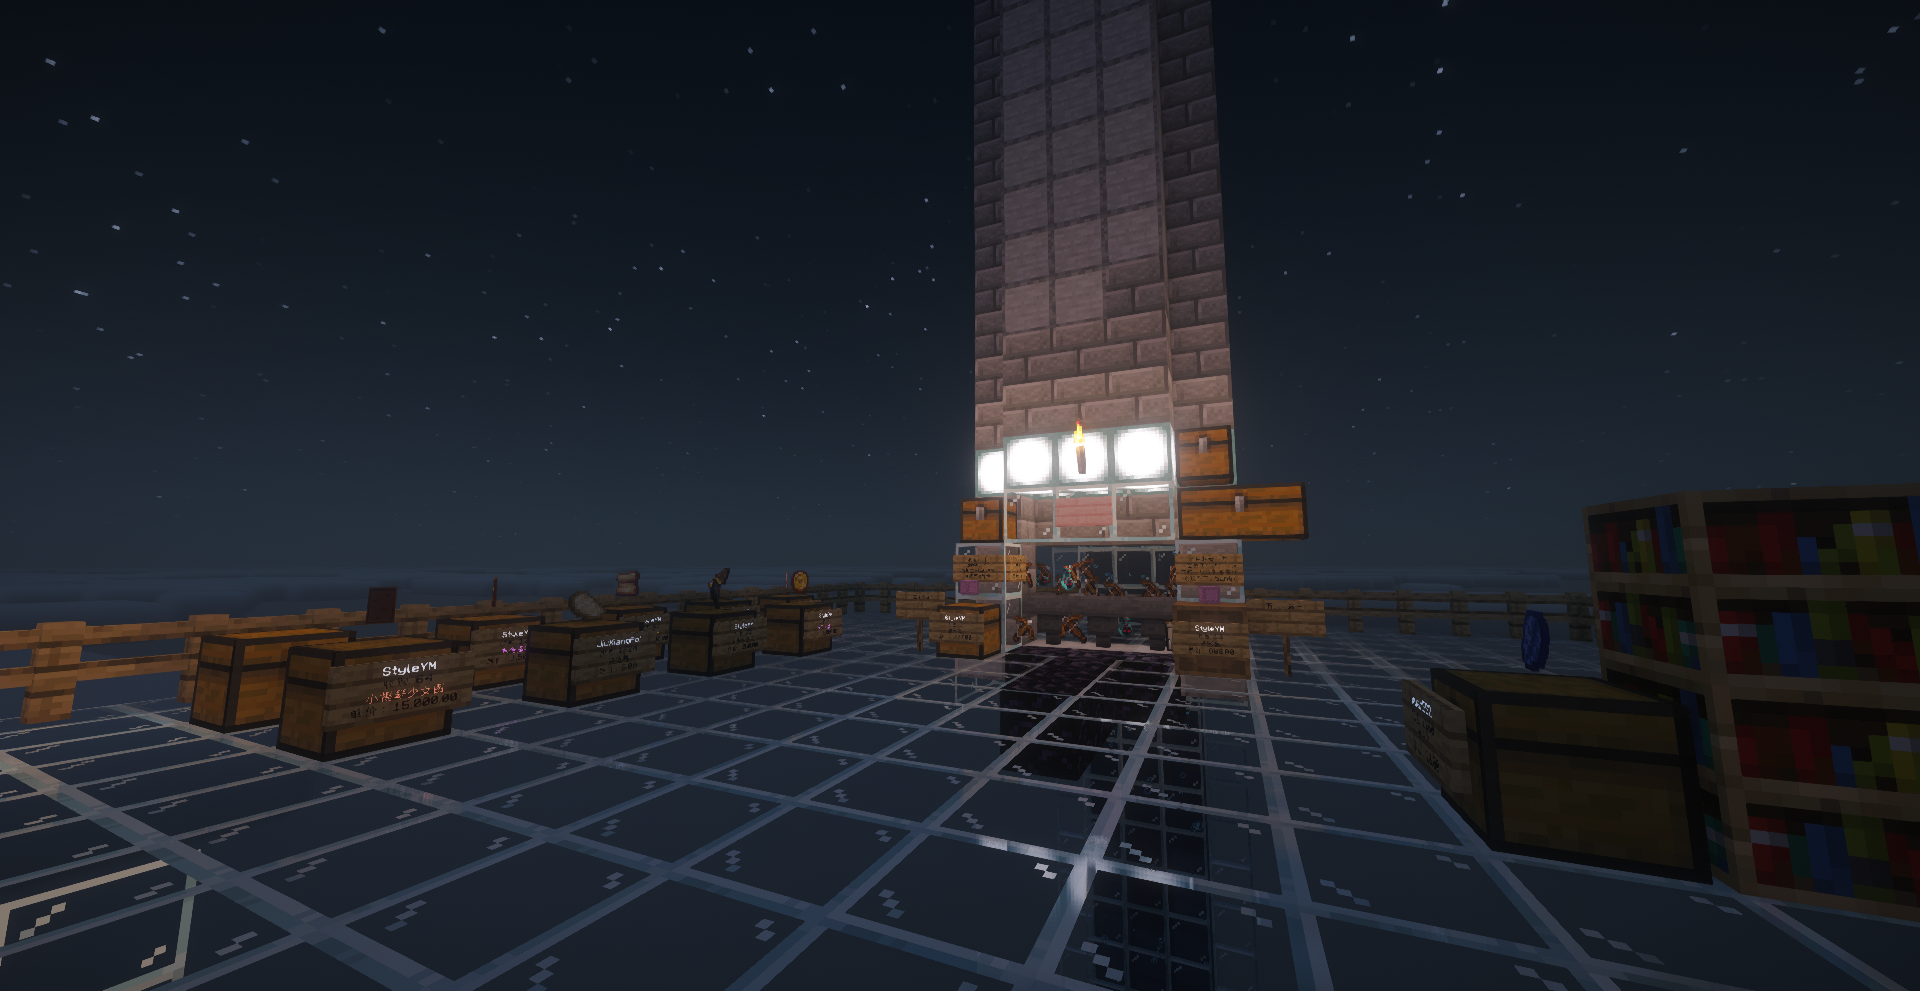
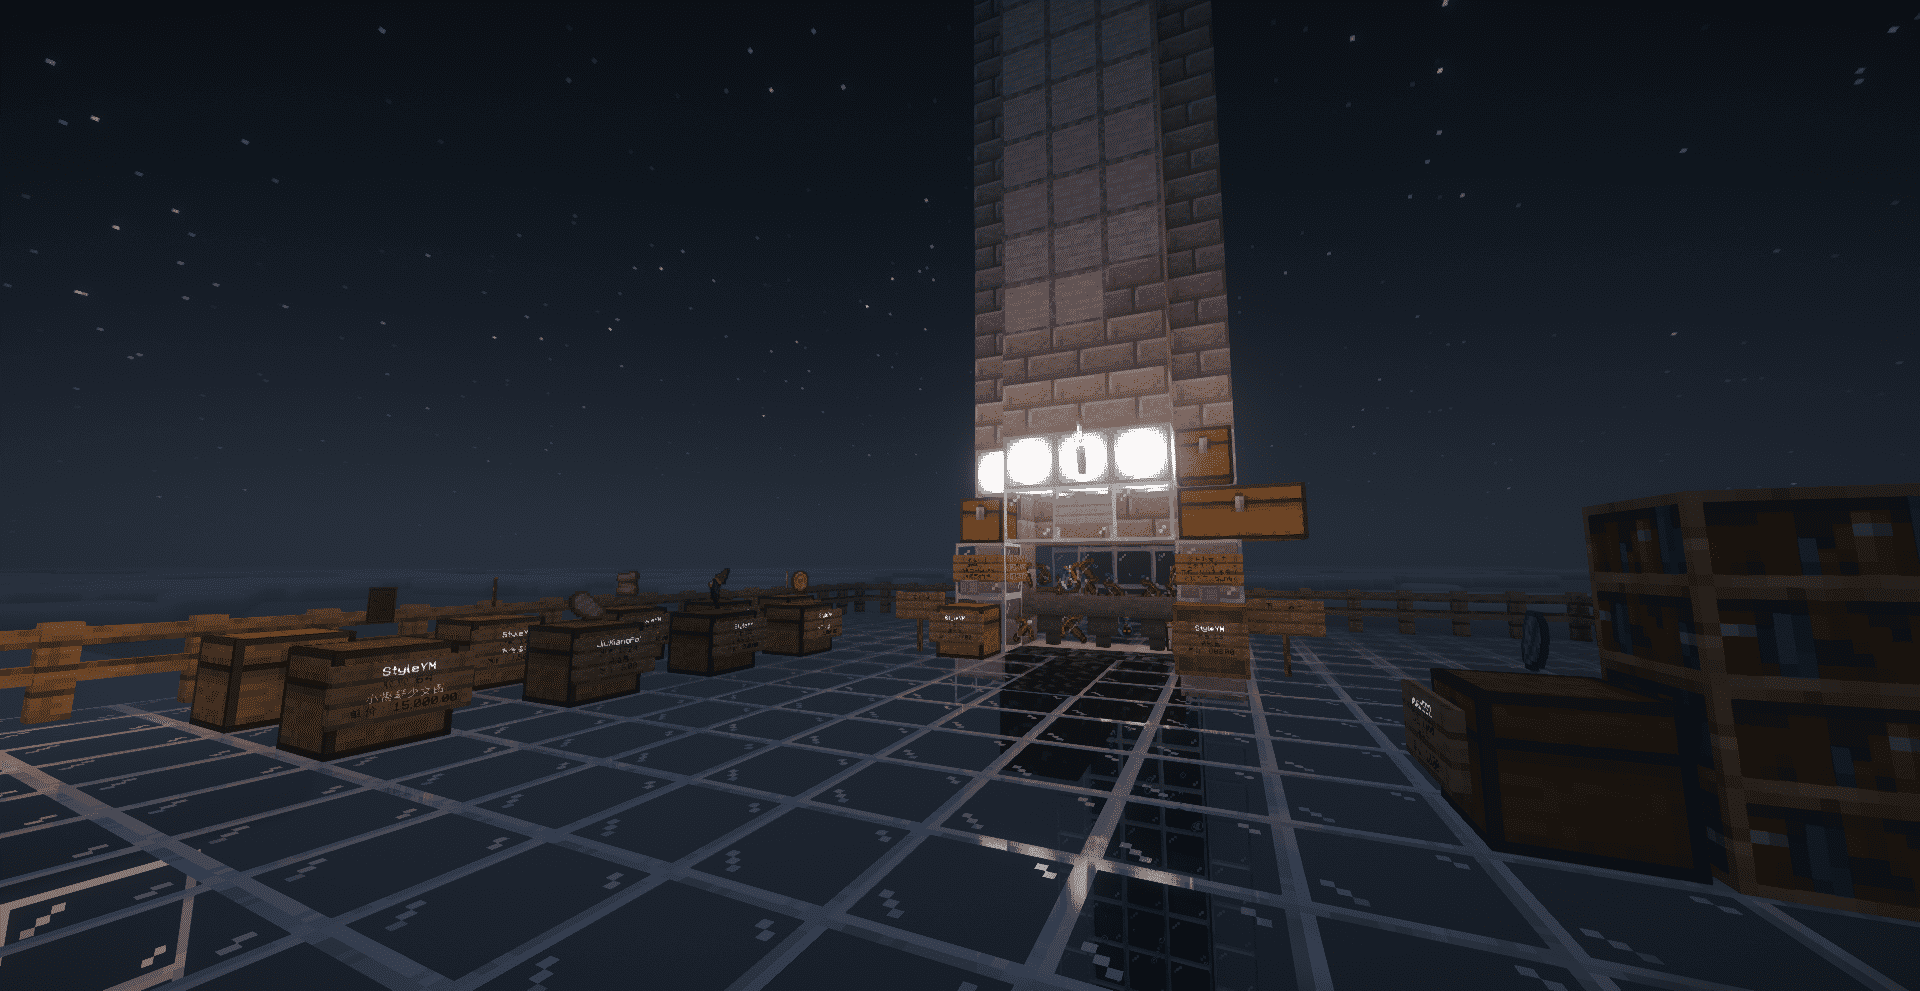
docs(showcase): add new shops, update store showcase system
- add 11 new commercial shops to stores.json
- update verification type to support array multi-certification
- redesign certification badge display to support multiple tags
- update tooltip text and certification icons
- add special tag styling for certified merchants
- update existing store image assets

diff --git a/apps/docs/app/(home)/showcase/page.tsx b/apps/docs/app/(home)/showcase/page.tsx
@@ -13,7 +13,6 @@ import {
   Check, 
   CheckCircle2,
   Star,
-  AlertTriangle,
   HelpCircle
 } from 'lucide-react';
 import Image from 'next/image';
@@ -35,7 +34,7 @@ interface StoreItem {
   image: string;
   type: 'commercial' | 'charity';
   merchantTypes: ('individual' | 'joint' | 'charity')[];
-  verification: 'blue' | 'yellow' | 'red' | 'rainbow';
+  verification: 'blue' | 'yellow' | 'red' | 'rainbow' | ('blue' | 'yellow' | 'red' | 'rainbow')[];
   createdAt: string;
   tags?: string[];
 }
@@ -61,26 +60,53 @@ function StarInCircleIcon(props: React.SVGProps<SVGSVGElement>) {
   );
 }
 
+// 自定义圆圈包裹勾号组件（用于黄色认证）
+function CheckInCircleIcon(props: React.SVGProps<SVGSVGElement>) {
+  return (
+    <svg
+      xmlns="http://www.w3.org/2000/svg"
+      viewBox="0 0 24 24"
+      fill="none"
+      stroke="currentColor"
+      strokeWidth="2"
+      strokeLinecap="round"
+      strokeLinejoin="round"
+      {...props}
+    >
+      <circle cx="12" cy="12" r="10" />
+      <polyline points="9,12 11,14 15,10" />
+    </svg>
+  );
+}
+
 // 获取认证信息的配置
-const getVerificationConfig = (verification: StoreItem['verification']) => {
+interface VerificationConfig {
+  icon: React.ComponentType<React.SVGProps<SVGSVGElement>>;
+  className: string;
+  style?: React.CSSProperties;
+  label: string;
+  tooltip: string;
+}
+
+const getVerificationConfig = (verification: 'blue' | 'yellow' | 'red' | 'rainbow'): VerificationConfig => {
   switch (verification) {
     case 'blue':
       return {
         icon: CheckCircle2,
         className: 'text-blue-500 dark:text-blue-400',
         label: '蓝色认证',
-        tooltip: '该商户可靠性高，店长可以信赖。',
+        tooltip: '商户可靠性高，口碑优秀',
       };
     case 'yellow':
       return {
-        icon: AlertTriangle,
+        icon: CheckInCircleIcon,
         className: 'text-yellow-500 dark:text-yellow-400',
         label: '黄色认证',
-        tooltip: '商户可能存在经常性缺货，是否值得信任有待考究',
+        tooltip: '商品补货较慢，口碑良好',
       };
     case 'red':
       return {
-        icon: HelpCircle,
+        icon: CheckInCircleIcon,
         className: 'text-red-500 dark:text-red-400',
         label: '红色认证',
         tooltip: '暂未获取更多有价值的信息，真实度有待考究。',
@@ -93,7 +119,7 @@ const getVerificationConfig = (verification: StoreItem['verification']) => {
           stroke: 'url(#rainbow-gradient)',
         },
         label: '星标认证',
-        tooltip: '商户人缘极佳，商店补货勤快，口碑优秀。',
+        tooltip: '口碑极佳，可靠性极高，补货勤',
       };
   }
 };
@@ -148,7 +174,7 @@ export default function Showcase() {
       activeTab === 'all' || 
       (activeTab === 'commercial' && store.type === 'commercial') ||
       (activeTab === 'charity' && (store.type === 'charity' || store.merchantTypes.includes('charity')));
-    const matchesStar = !onlyStars || store.verification === 'rainbow';
+    const matchesStar = !onlyStars || (Array.isArray(store.verification) ? store.verification.includes('rainbow') : store.verification === 'rainbow');
     const matchesSearch = 
       store.name.toLowerCase().includes(searchQuery.toLowerCase()) ||
       store.owner.toLowerCase().includes(searchQuery.toLowerCase()) ||
@@ -191,19 +217,19 @@ export default function Showcase() {
                 </div>
                 <div className="flex items-center gap-2">
                   <CheckCircle2 className="size-4 text-blue-500 shrink-0" />
-                  <span><strong className="text-neutral-700 dark:text-neutral-300">蓝色认证</strong>：可靠性高，店长可信赖。</span>
+                  <span><strong className="text-neutral-700 dark:text-neutral-300">蓝色认证</strong>：商户可靠性高，口碑优秀。</span>
                 </div>
                 <div className="flex items-center gap-2">
-                  <AlertTriangle className="size-4 text-yellow-500 shrink-0" />
-                  <span><strong className="text-neutral-700 dark:text-neutral-300">黄色认证</strong>：缺货，是否信任有待考究。</span>
+                  <CheckInCircleIcon className="size-4 text-yellow-500 shrink-0" />
+                  <span><strong className="text-neutral-700 dark:text-neutral-300">黄色认证</strong>：商品补货较慢，口碑良好。</span>
                 </div>
                 <div className="flex items-center gap-2">
-                  <HelpCircle className="size-4 text-red-500 shrink-0" />
+                  <CheckInCircleIcon className="size-4 text-red-500 shrink-0" />
                   <span><strong className="text-neutral-700 dark:text-neutral-300">红色认证</strong>：缺乏足够信息，有待考究。</span>
                 </div>
                 <div className="flex items-center gap-2">
                   <StarInCircleIcon className="size-4 shrink-0" style={{ stroke: 'url(#rainbow-gradient)' }} />
-                  <span><strong className="text-neutral-700 dark:text-neutral-300">星标认证</strong>：人缘好，补货勤，口碑优秀。</span>
+                  <span><strong className="text-neutral-700 dark:text-neutral-300">星标认证</strong>：口碑极佳，可靠性极高，补货勤。</span>
                 </div>
               </div>
               
@@ -232,6 +258,13 @@ export default function Showcase() {
                     <span>公益商户</span>
                   </span>
                   <span>通常是存在公益行为。</span>
+                </div>
+                <div className="flex items-center gap-2">
+                  <span className="inline-flex items-center gap-1 px-1.5 py-0.5 rounded text-[10px] font-semibold bg-emerald-500/10 text-emerald-500 border border-emerald-500/20 shrink-0">
+                    <CheckCircle2 className="size-2.5" />
+                    <span>认证商户</span>
+                  </span>
+                  <span>主动认领、入驻商会。</span>
                 </div>
               </div>
             </div>
@@ -380,7 +413,7 @@ export default function Showcase() {
             className="grid grid-cols-1 sm:grid-cols-2 lg:grid-cols-3 gap-8"
           >
             {filteredStores.map((store) => {
-              const vConfig = getVerificationConfig(store.verification);
+              const verifications = Array.isArray(store.verification) ? store.verification : [store.verification];
               return (
                 <motion.div
                   key={store.id}
@@ -423,24 +456,27 @@ export default function Showcase() {
                         <h2 className="text-xl font-bold text-neutral-900 dark:text-white tracking-tight">{store.name}</h2>
                         
                         {/* 认证 Badge 容器与悬停气泡解释 */}
-                        <div className="relative group/tooltip flex items-center">
-                          {(() => {
+                        <div className="flex items-center gap-1">
+                          {verifications.map((v) => {
+                            const vConfig = getVerificationConfig(v as 'blue' | 'yellow' | 'red' | 'rainbow');
                             const IconComponent = vConfig.icon;
                             return (
-                              <IconComponent 
-                                className={cn("size-5 cursor-help", vConfig.className)}
-                                style={vConfig.style}
-                              />
+                              <div key={v} className="relative group/tooltip flex items-center">
+                                <IconComponent
+                                  className={cn("size-5 cursor-help", vConfig.className)}
+                                  style={vConfig.style}
+                                />
+                                {/* 精致的 Tooltip */}
+                                <div className="absolute bottom-full left-1/2 -translate-x-1/2 mb-2 w-48 p-2.5 bg-neutral-900 dark:bg-neutral-800 text-white text-xs rounded-lg shadow-xl border border-neutral-700/50 opacity-0 invisible group-hover/tooltip:opacity-100 group-hover/tooltip:visible translate-y-1 group-hover/tooltip:translate-y-0 transition-all duration-200 z-50 pointer-events-none">
+                                  <div className="relative font-medium leading-relaxed">
+                                    <span className="font-bold block text-brand border-b border-neutral-700/60 pb-1 mb-1">{vConfig.label}</span>
+                                    {vConfig.tooltip}
+                                    <div className="absolute top-full left-1/2 -translate-x-1/2 w-2 h-2 bg-neutral-900 dark:bg-neutral-800 border-r border-b border-neutral-700/50 rotate-45 -mt-[5px]" />
+                                  </div>
+                                </div>
+                              </div>
                             );
-                          })()}
-                          {/* 精致的 Tooltip */}
-                          <div className="absolute bottom-full left-1/2 -translate-x-1/2 mb-2 w-48 p-2.5 bg-neutral-900 dark:bg-neutral-800 text-white text-xs rounded-lg shadow-xl border border-neutral-700/50 opacity-0 invisible group-hover/tooltip:opacity-100 group-hover/tooltip:visible translate-y-1 group-hover/tooltip:translate-y-0 transition-all duration-200 z-50 pointer-events-none">
-                            <div className="relative font-medium leading-relaxed">
-                              <span className="font-bold block text-brand border-b border-neutral-700/60 pb-1 mb-1">{vConfig.label}</span>
-                              {vConfig.tooltip}
-                              <div className="absolute top-full left-1/2 -translate-x-1/2 w-2 h-2 bg-neutral-900 dark:bg-neutral-800 border-r border-b border-neutral-700/50 rotate-45 -mt-[5px]" />
-                            </div>
-                          </div>
+                          })}
                         </div>
                       </div>
 
@@ -482,11 +518,21 @@ export default function Showcase() {
                         })}
 
                         {/* 自定义特色标签 */}
-                        {store.tags && store.tags.map((tag) => (
-                          <span key={tag} className="inline-flex items-center px-2.5 py-0.5 rounded-full text-xs font-medium bg-neutral-100 dark:bg-neutral-800 text-neutral-600 dark:text-neutral-400 border border-neutral-200 dark:border-neutral-700/60">
-                            {tag}
-                          </span>
-                        ))}
+                        {store.tags && store.tags.map((tag) => {
+                          if (tag === '认证商户') {
+                            return (
+                              <span key={tag} className="inline-flex items-center gap-1 px-2.5 py-0.5 rounded-full text-xs font-semibold bg-emerald-500/10 text-emerald-500 border border-emerald-500/20">
+                                <CheckCircle2 className="size-3" />
+                                <span>认证商户</span>
+                              </span>
+                            );
+                          }
+                          return (
+                            <span key={tag} className="inline-flex items-center px-2.5 py-0.5 rounded-full text-xs font-medium bg-neutral-100 dark:bg-neutral-800 text-neutral-600 dark:text-neutral-400 border border-neutral-200 dark:border-neutral-700/60">
+                              {tag}
+                            </span>
+                          );
+                        })}
                       </div>
 
                       {/* 第四行：简介描述 */}
